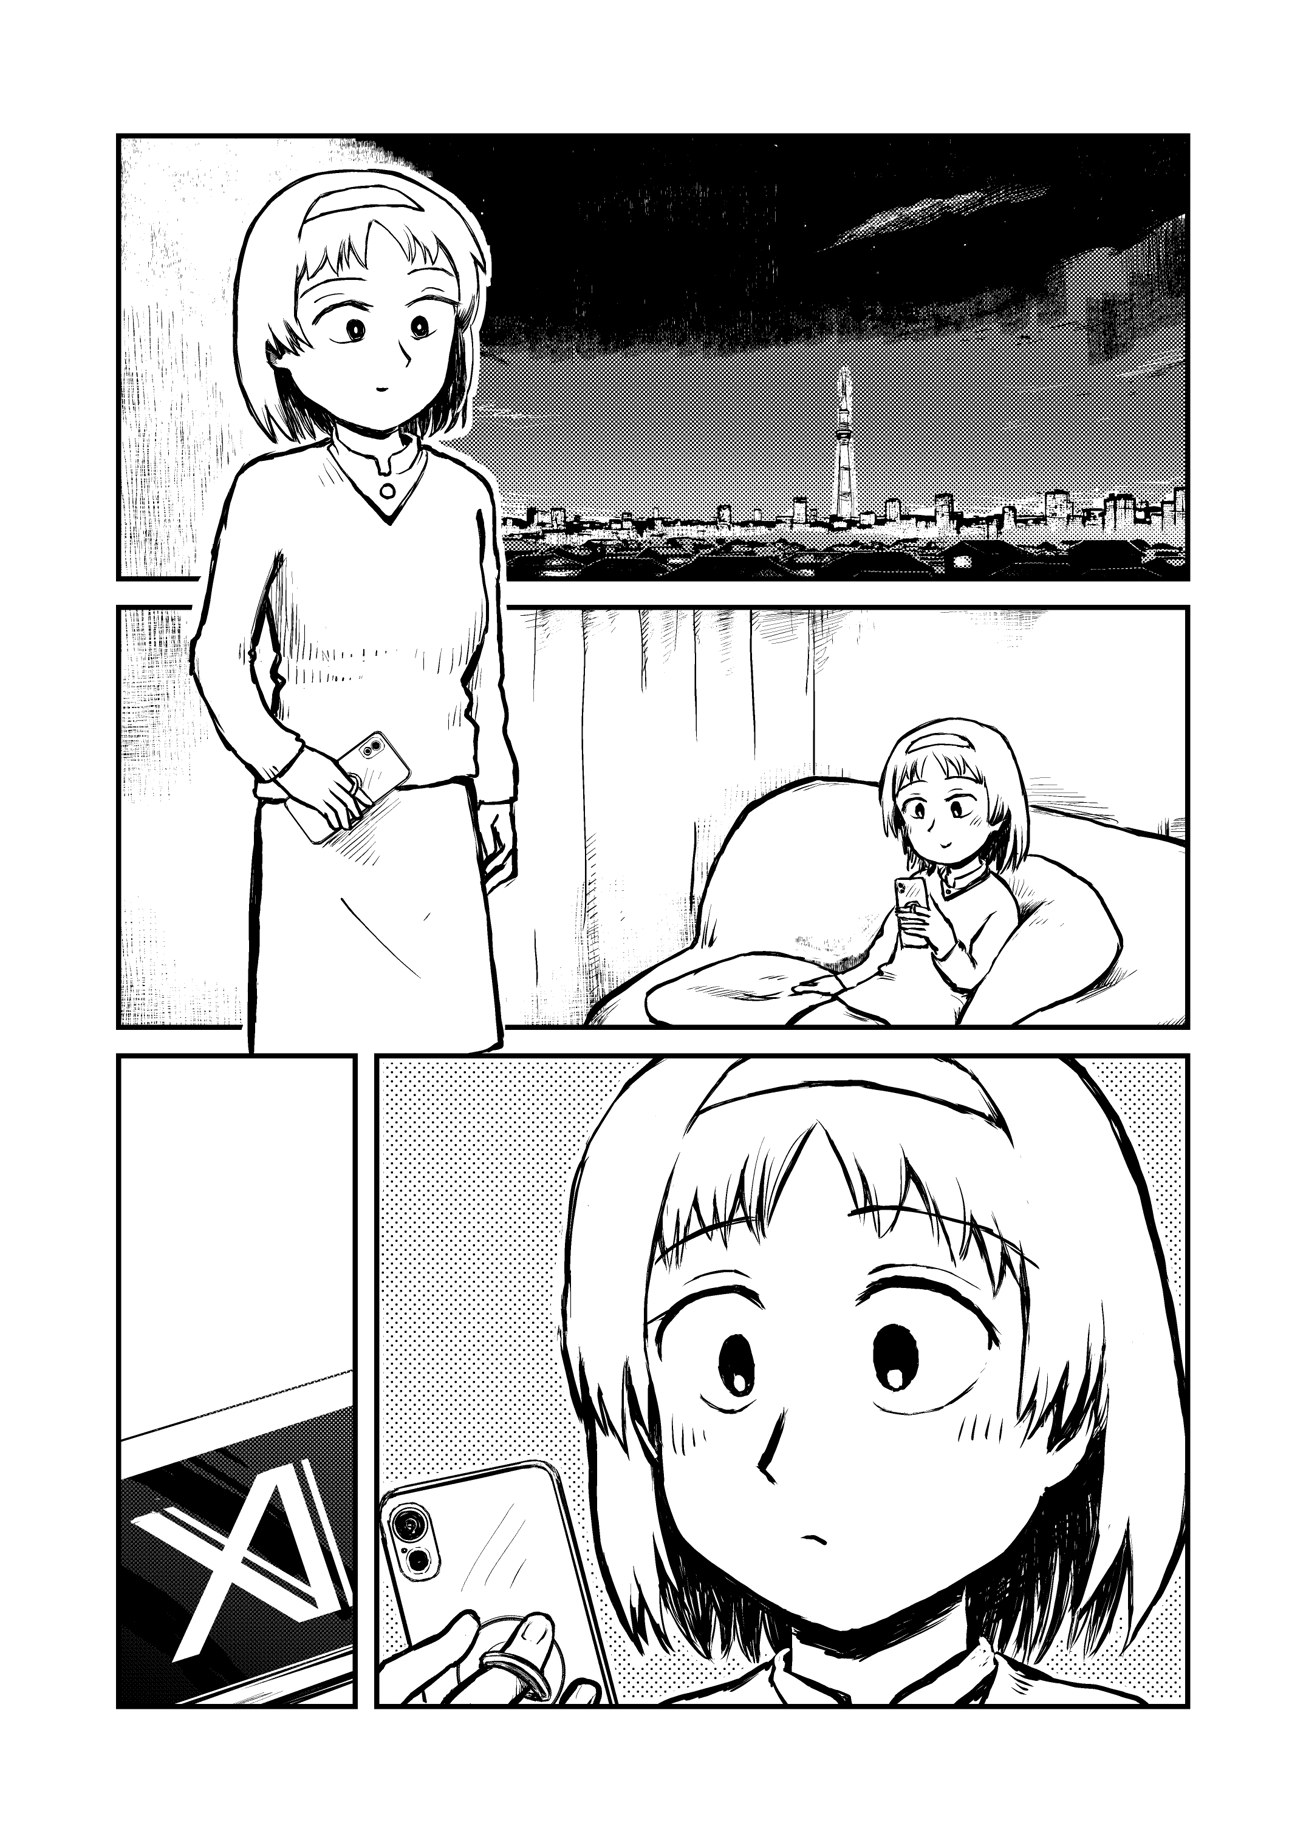
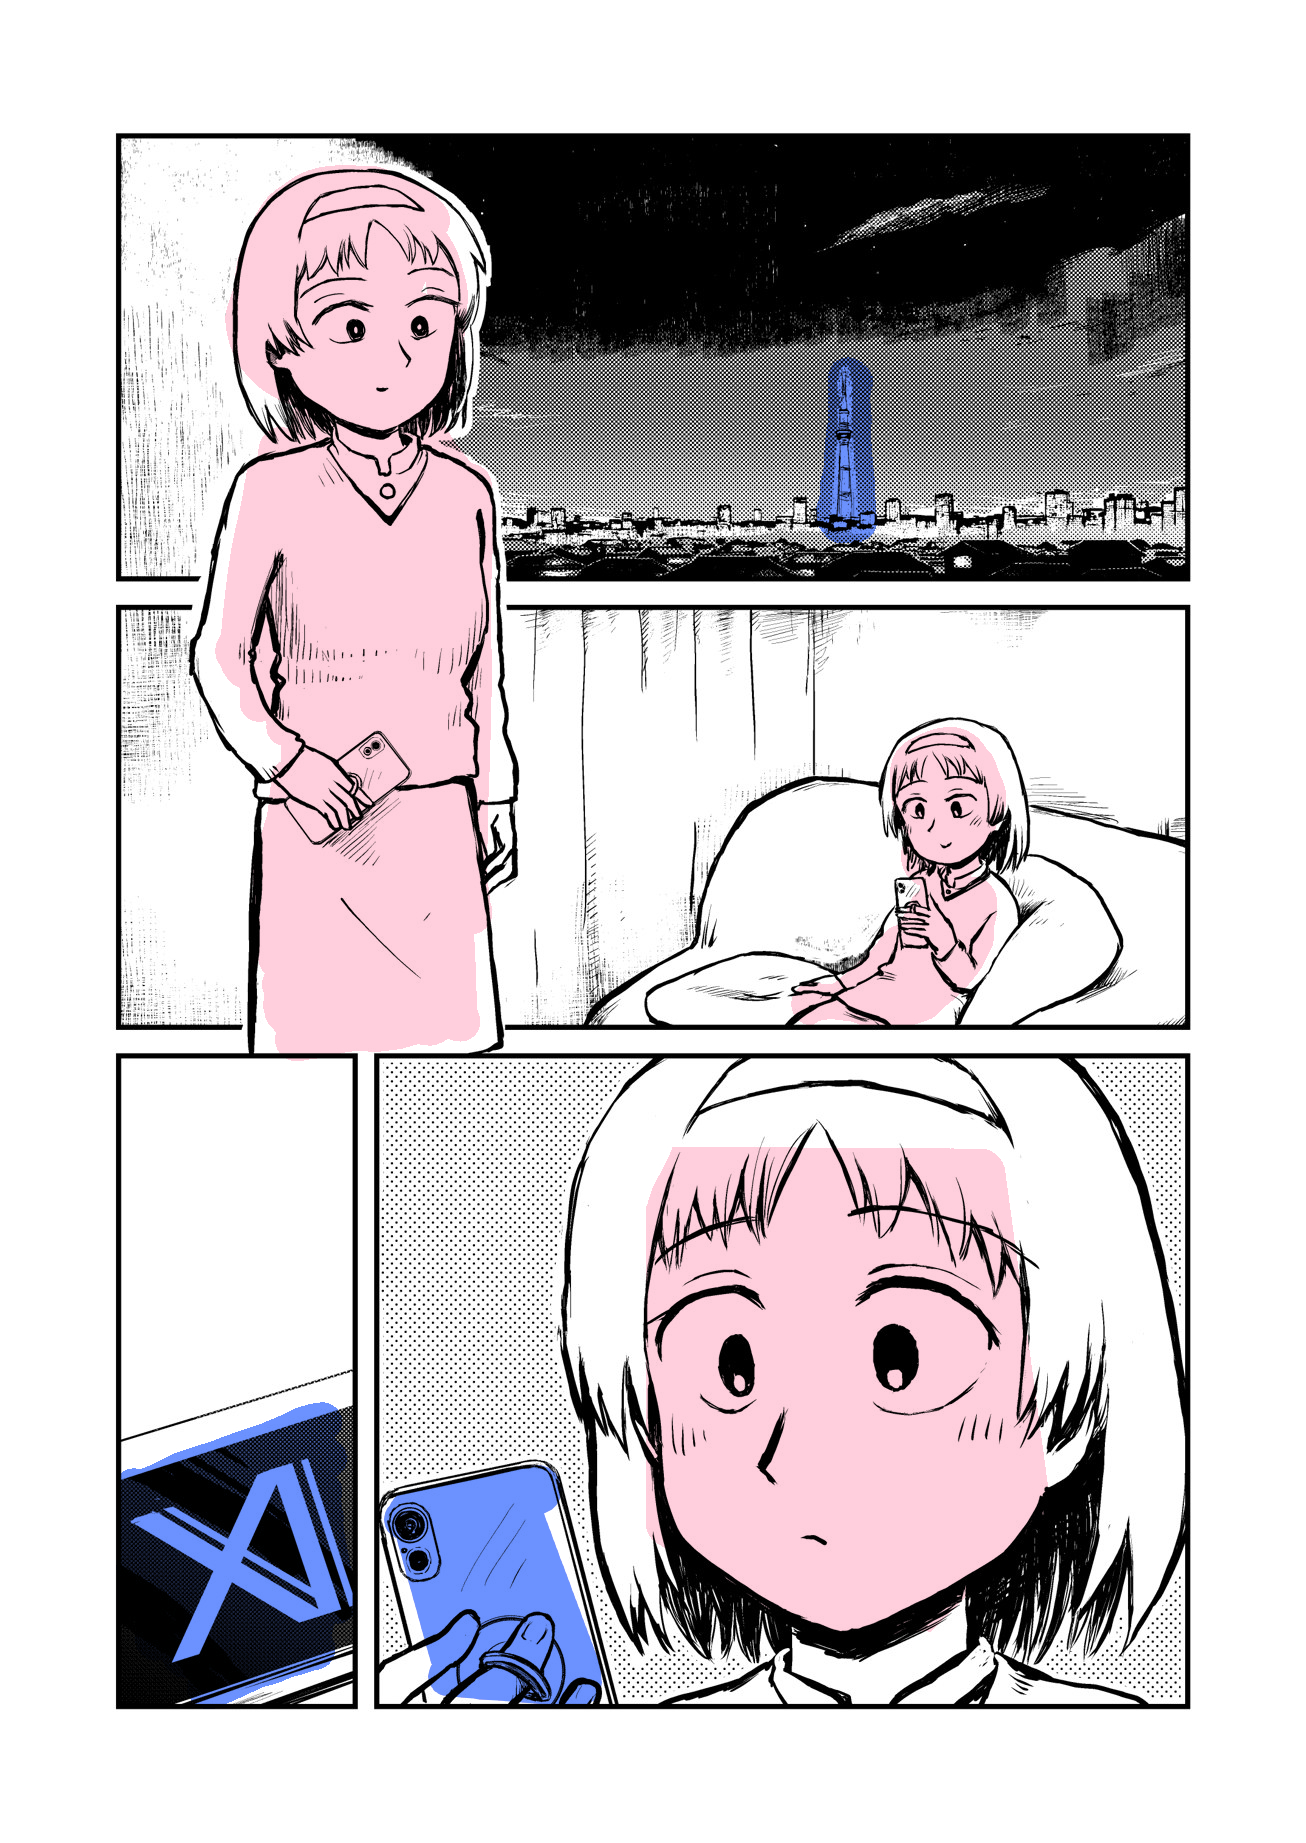
吹き出しサンプル追加

diff --git a/manga_babble/place/layout.py b/manga_babble/place/layout.py
@@ -804,13 +804,14 @@ def build_layout(
             color_prep = None
 
     if color_prep and color_prep.get("has_color") and color_prep.get("fill_mask") is not None:
+        # #40: color HARD = paint fill + faces only (no line_ink / 黒ベタ)
         page_occupancy = build_occupancy_color(
             color_prep["fill_mask"],
-            line_ink_mask=color_prep.get("line_ink_mask"),
+            line_ink_mask=None,
             face_bboxes=face_bbs,
             frame_bboxes=frame_bbs,
             face_pad_ratio=0.12,
-            include_lines=True,
+            include_lines=False,
         )
         occupancy_mode = "color_fill"
         # User rule: ignore detector body boxes when fill mask drives free space
@@ -853,8 +854,21 @@ def build_layout(
                 line, frames, frames_ordered, page_bbox
             )
             fid_key = frame_id or "_page"
-            slot_i = slot_counter.get(fid_key, 0)
-            slot_counter[fid_key] = slot_i + 1
+
+            # Speech slots ①TR→②TL… only (#41).
+            # Narration must NOT consume slot 0 — first dialogue stays 右上.
+            is_narr = tone == "narration" or shape in (
+                "v-rect",
+                "tall-rect",
+                "rect",
+            )
+            if is_narr:
+                slot_i = 0  # aim heuristics only; not a speech order index
+                prefer_slot = 1  # ナレは左上寄り（①は発話用）
+            else:
+                slot_i = slot_counter.get(fid_key, 0)
+                slot_counter[fid_key] = slot_i + 1
+                prefer_slot = slot_i
 
             # Size from the same chunks render will use (agent　 /  structural)
             text_chunks = split_text_to_chunks(
@@ -870,6 +884,7 @@ def build_layout(
             half_h = min(min_hh, max_hh)
             meta_extra["text_chunks"] = text_chunks
             meta_extra["n_cols"] = len(text_chunks)
+            meta_extra["speech_slot"] = None if is_narr else slot_i
 
             # Aim: faces ∪ anchors (#36). Speaker name / explicit id / R3 heuristics
             want_tail = tone not in ("narration", "shout") and shape not in (
@@ -892,10 +907,8 @@ def build_layout(
             # Placement ranking uses preferred SLOT only (TR→TL…).
             # Do NOT pull bubble center toward face — that sank 「ん？」 to the
             # lower free pocket beside the head. Tails still aim via resolve_aim.
-            prefer_slot = slot_i
             prefer_near = None
-            if tone == "narration":
-                prefer_slot = 1 if slot_i == 0 else slot_i
+            if is_narr:
                 prefer_near = _center(
                     _slot_bbox(frame_bbox, _SLOTS[prefer_slot % len(_SLOTS)], half_w, half_h)
                 )

diff --git a/manga_babble/place/occupancy.py b/manga_babble/place/occupancy.py
@@ -1,8 +1,11 @@
-"""Dual-path occupancy for color ネーム pages.
+"""Dual-path occupancy for color ネーム / guide-painted pages.
 
 Path A (detect):  color → extract black lines → B&W line art → RT-DETR
-Path B (occupy):  color → chromatic fill mask (person paint) → HARD free-space
-Merge:            place uses faces from A + occupancy from B; body AABB ignored.
+Path B (occupy):  chromatic fill (pink person / blue "don't cover" guides) + face pads
+Merge:            faces from A for aim + HARD; occupancy from B; body AABB ignored.
+
+Color HARD does **not** use raw dark-pixel line_ink (black flats / tones are free).
+Panel borders are handled by frame inset in place, not full-page ink.
 
 Mono pages fall back to ink-envelope occupancy.
 """
@@ -103,7 +106,12 @@ def extract_line_ink_mask(
     line_thresh: int = 80,
     dilate_iter: int = 1,
 ) -> np.ndarray:
-    """Optional: thickened black lines also hard (don't cover ink)."""
+    """
+    Dark pixels as mask (legacy / mono helpers).
+
+    **Not used for color occupancy** — gray&lt;thr treats 黒ベタ背景 as ink (#40).
+    Kept for experiments and mono fallback helpers only.
+    """
     gray = cv2.cvtColor(bgr, cv2.COLOR_BGR2GRAY)
     ink = (gray < int(line_thresh)).astype(np.uint8) * 255
     if dilate_iter > 0:
@@ -212,18 +220,26 @@ def build_occupancy_color(
     frame_bboxes: list[tuple] | None = None,
     *,
     face_pad_ratio: float = 0.12,
-    include_lines: bool = True,
+    include_lines: bool = False,
 ) -> np.ndarray:
     """
-    HARD occupancy from person paint (+ optional line ink) + face pads.
-    Body detector boxes are not used.
+    HARD occupancy for color pages (#40):
+
+      - chromatic fill (person pink / guide blue) — required
+      - face pads (red boxes; also used for tail aim elsewhere)
+      - frame border strip cleared so 枠線上に貼り付かない
+
+    ``line_ink_mask`` is ignored unless ``include_lines=True`` (discouraged;
+    black flats become false HARD). Body detector AABBs are not used.
     """
     occ = fill_mask.copy()
     if include_lines and line_ink_mask is not None:
+        # Legacy escape hatch only — do not enable for manga black skies
         occ = np.maximum(occ, line_ink_mask)
     if face_bboxes:
         padded = face_margin_boxes(face_bboxes, pad_ratio=face_pad_ratio, pad_min=4.0)
         occ = stamp_boxes_on_mask(occ, padded)
+    # Free the panel border strip (コマ枠). Placement also insets from frame.
     occ = clear_frame_borders(occ, frame_bboxes, border_px=5)
     return occ
 

diff --git a/tests/test_place_slots.py b/tests/test_place_slots.py
@@ -44,3 +44,48 @@ def test_reading_order_bottom_row_rtl():
     ]
     ordered = frames_in_reading_order(frames)
     assert [f["id"] for f in ordered] == ["top", "right", "left"]
+
+
+def test_narration_does_not_consume_speech_slot_zero():
+    """#41: ナレのあとの発話は①右上（ゼロ番をナレが食わない）。"""
+    det = {
+        "schema_version": 1,
+        "page": {"width": 1000, "height": 800},
+        "detections": {
+            "frames": [{"id": "f0", "bbox": [0, 0, 1000, 800], "score": 1}],
+            "faces": [
+                {"id": "fa", "bbox": [100, 400, 250, 550], "frame_id": "f0"},
+            ],
+            "bodies": [],
+            "texts": [],
+        },
+    }
+    lines = {
+        "schema_version": 1,
+        "lines": [
+            {
+                "id": "n",
+                "text": "2025年",
+                "order": 0,
+                "panel_index": 1,
+                "type": "narration",
+            },
+            {
+                "id": "s",
+                "text": "やっと　正月だー！",
+                "order": 1,
+                "panel_index": 1,
+                "type": "normal",
+            },
+        ],
+    }
+    lay = build_layout(det, lines)
+    narr, speech = lay["bubbles"][0], lay["bubbles"][1]
+    assert narr["meta"].get("speech_slot") is None
+    assert speech["meta"].get("speech_slot") == 0
+    # Speech preferred ①: center further right than narration (② TL bias)
+    nsx = (narr["bubble_bbox"][0] + narr["bubble_bbox"][2]) / 2
+    ssx = (speech["bubble_bbox"][0] + speech["bubble_bbox"][2]) / 2
+    assert ssx > nsx
+    # Speech in right half of frame
+    assert ssx > 500

diff --git a/tests/test_color_layers.py b/tests/test_color_layers.py
@@ -51,16 +51,38 @@ def test_fill_mask_marks_pink_not_white_corner():
 
 
 def test_occupancy_uses_fill_not_whole_box():
-    from manga_babble.place.occupancy import extract_line_ink_mask
-
     img = _make_pink_name()
     fill = extract_person_fill_mask(img)
-    line_ink = extract_line_ink_mask(img)
+    # #40: no line_ink — fill + face only
     occ = build_occupancy_color(
-        fill, line_ink_mask=line_ink, face_bboxes=[(55, 45, 90, 80)]
+        fill, face_bboxes=[(55, 45, 90, 80)], include_lines=False
     )
     free = (140, 40, 180, 100)
     assert region_ink_fraction(occ, free) < 0.15
     assert not hits_occupancy(occ, free, max_frac=0.15)
     on_pink = (60, 80, 100, 140)
     assert hits_occupancy(occ, on_pink, max_frac=0.15)
+
+
+def test_black_flat_background_is_not_hard():
+    """Night-sky style black flat must stay free (#40). Only chroma fill is HARD."""
+    import cv2
+
+    h, w = 200, 200
+    img = np.zeros((h, w, 3), dtype=np.uint8)  # black flat sky
+    # pink person blob
+    img[40:160, 30:90] = (221, 207, 255)
+    cv2.rectangle(img, (10, 10), (190, 190), (0, 0, 0), 2)
+    fill = extract_person_fill_mask(img, dilate_iter=1)
+    occ = build_occupancy_color(
+        fill,
+        face_bboxes=[(40, 50, 80, 90)],
+        frame_bboxes=[(10, 10, 190, 190)],
+        include_lines=False,
+    )
+    # black sky on the right — free
+    sky = (120, 40, 180, 100)
+    assert region_ink_fraction(occ, sky) < 0.12
+    assert not hits_occupancy(occ, sky, max_frac=0.12)
+    # pink still hard
+    assert hits_occupancy(occ, (45, 70, 75, 130), max_frac=0.12)

diff --git a/Agent.md b/Agent.md
@@ -67,7 +67,7 @@
 | 項目 | 決定 |
 |------|------|
 | 主入力 | ① 原稿画像 or 検出結果（frame / body / face） ② **セリフリスト**（本文必須。話者・トーン明示は任意） ③（モードB）**構造 JSON**（frames + **anchors** + lines。画像は任意） |
-| 配置モード | **A 後載せ**: 完成寄り絵→検出。 **B ネーム先**: 話者アンカー（頭 bbox）が先→同じ place（#35） |
+| 配置モード | **A 後載せ**: 完成寄り絵→検出で自動配置（難）。 **B ネーム先**: 話者アンカー→ place（#35）。 **C ガイド**（推奨実用）: 人が置き場ゾーンを指定、機械は face/トーン/サイズ/＞/描画（#42） |
 | 配置の根拠 | **aim（face∪anchor）+ 空白**（頭を隠さない・空きの広さ）。セリフ量でサイズ調整。作品名ハードコードなし |
 | トーンの根拠 | **セリフから雰囲気を解決**（明示タグ → テキスト規則 → `normal`）。**VLM 非依存** |
 | 枠・尻尾 | **ラスタでよい**。ベクター必須にしない |
